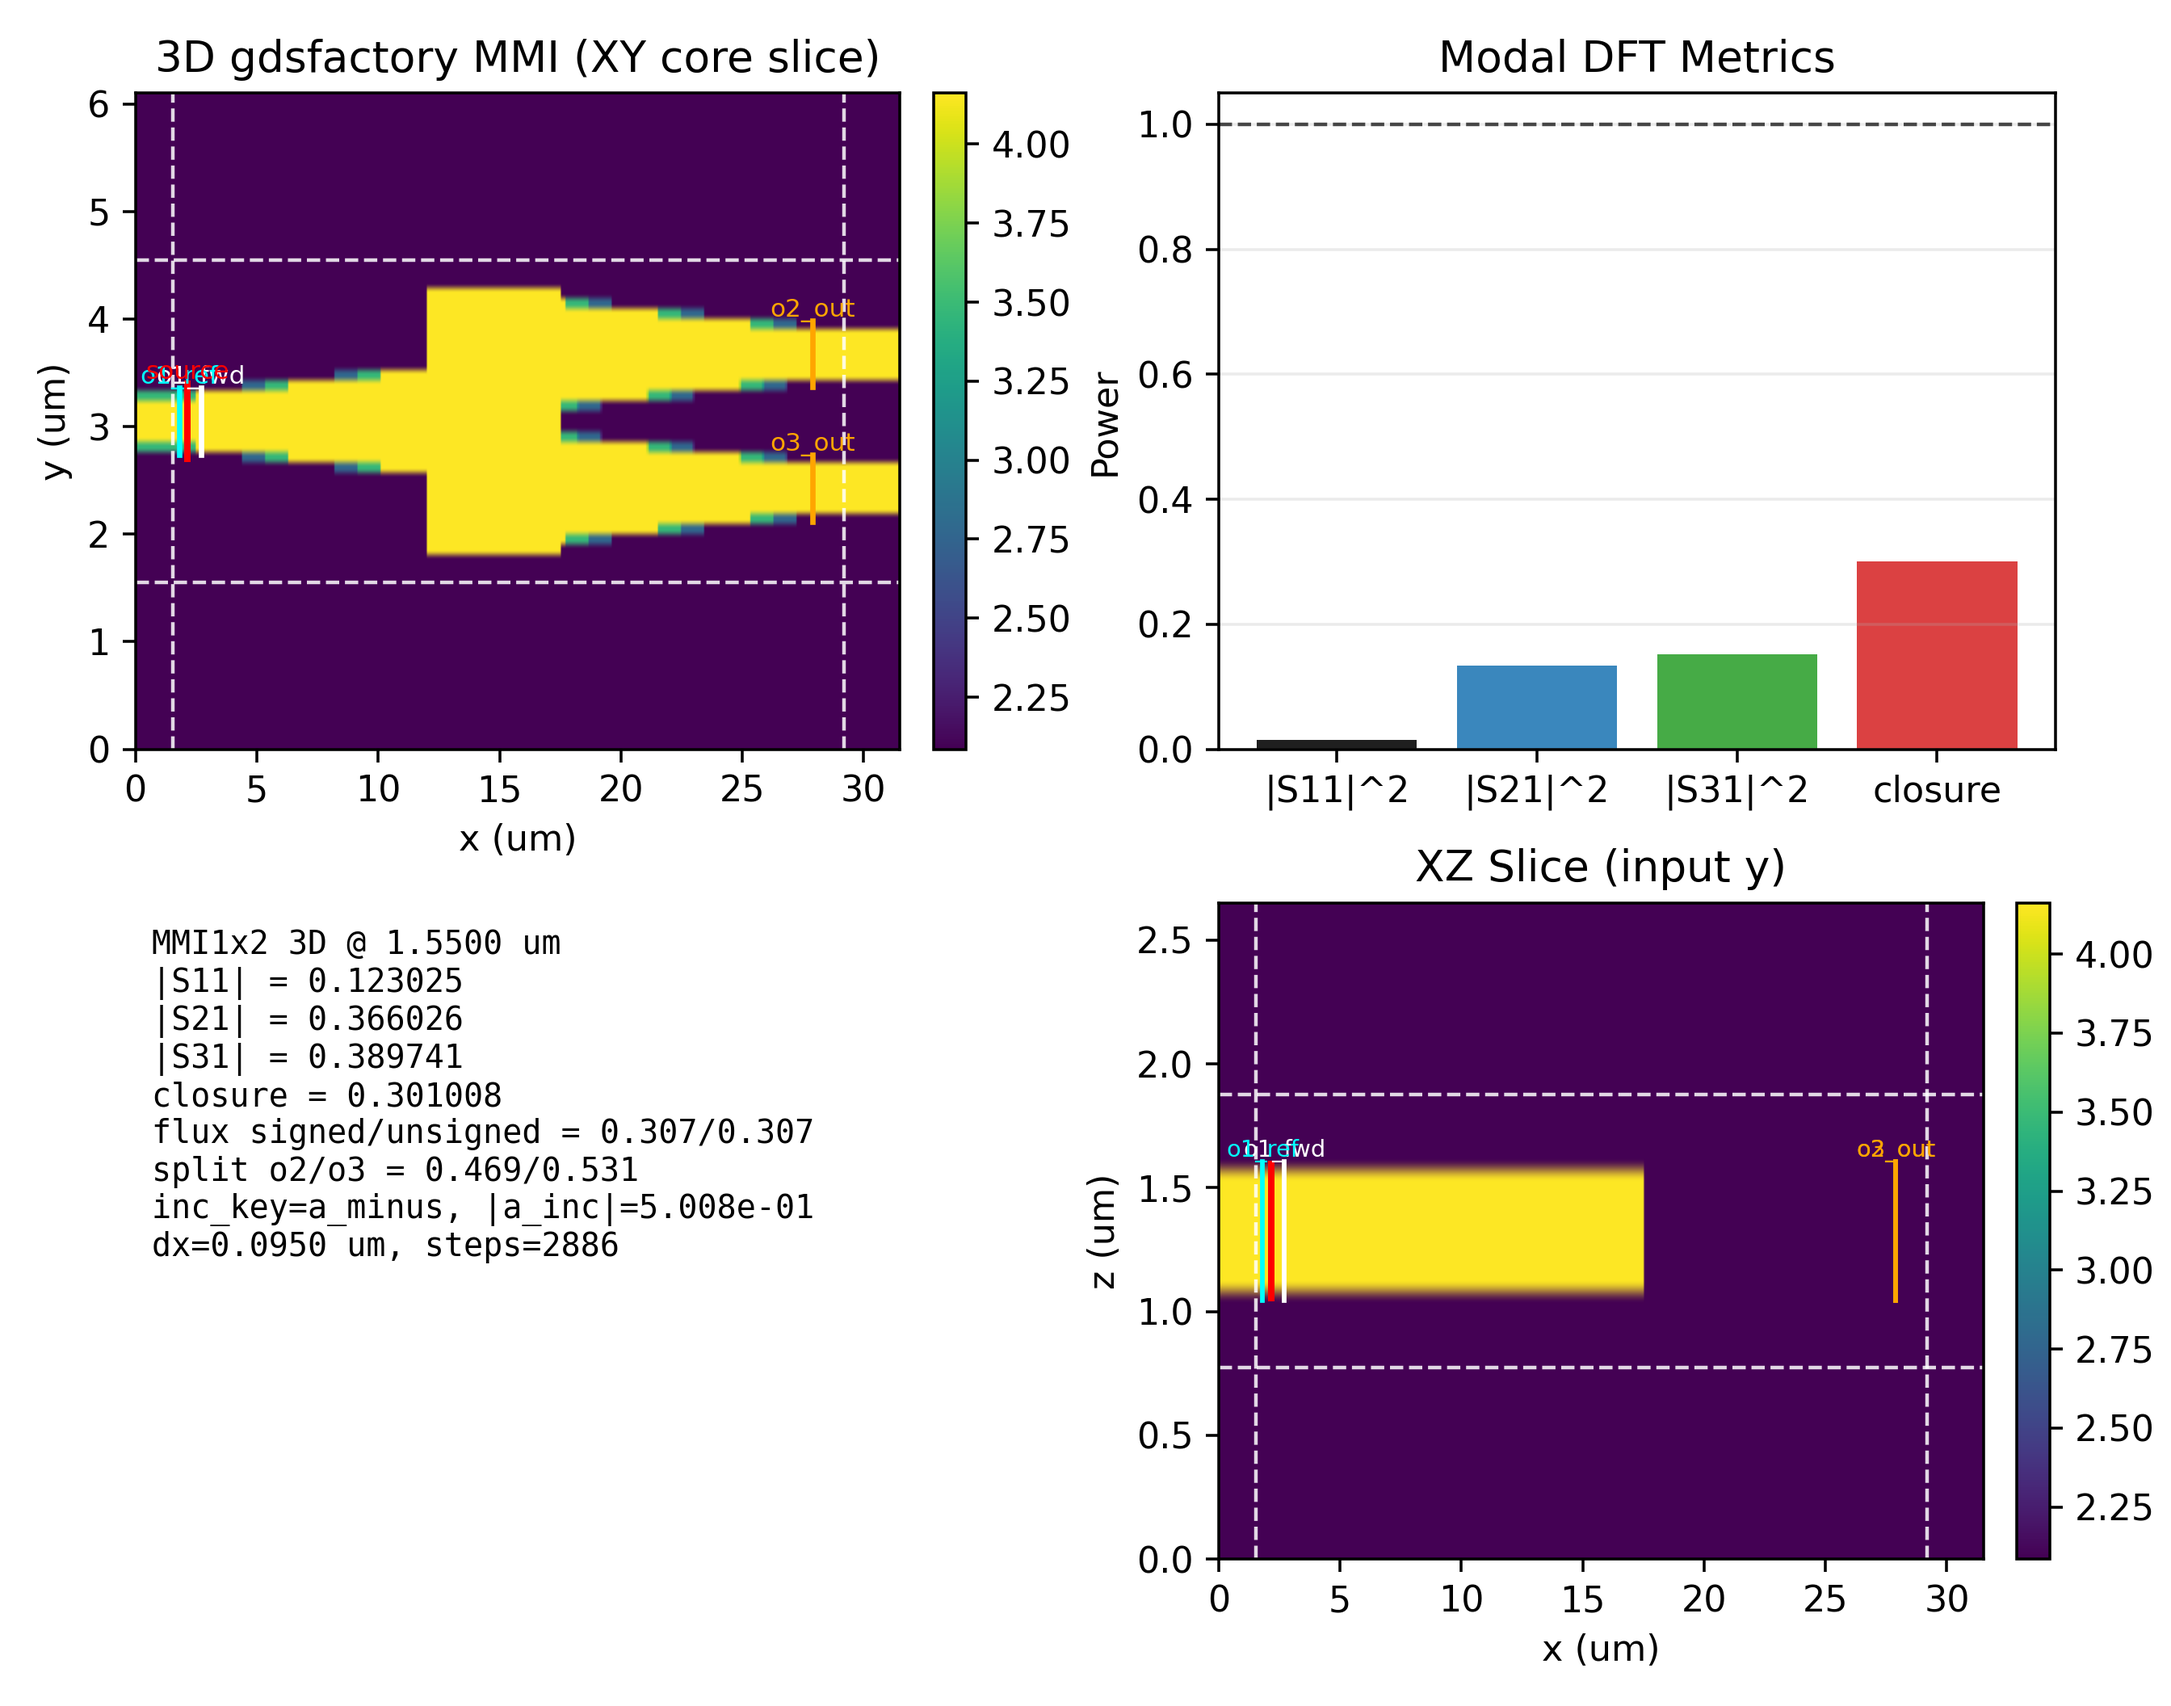
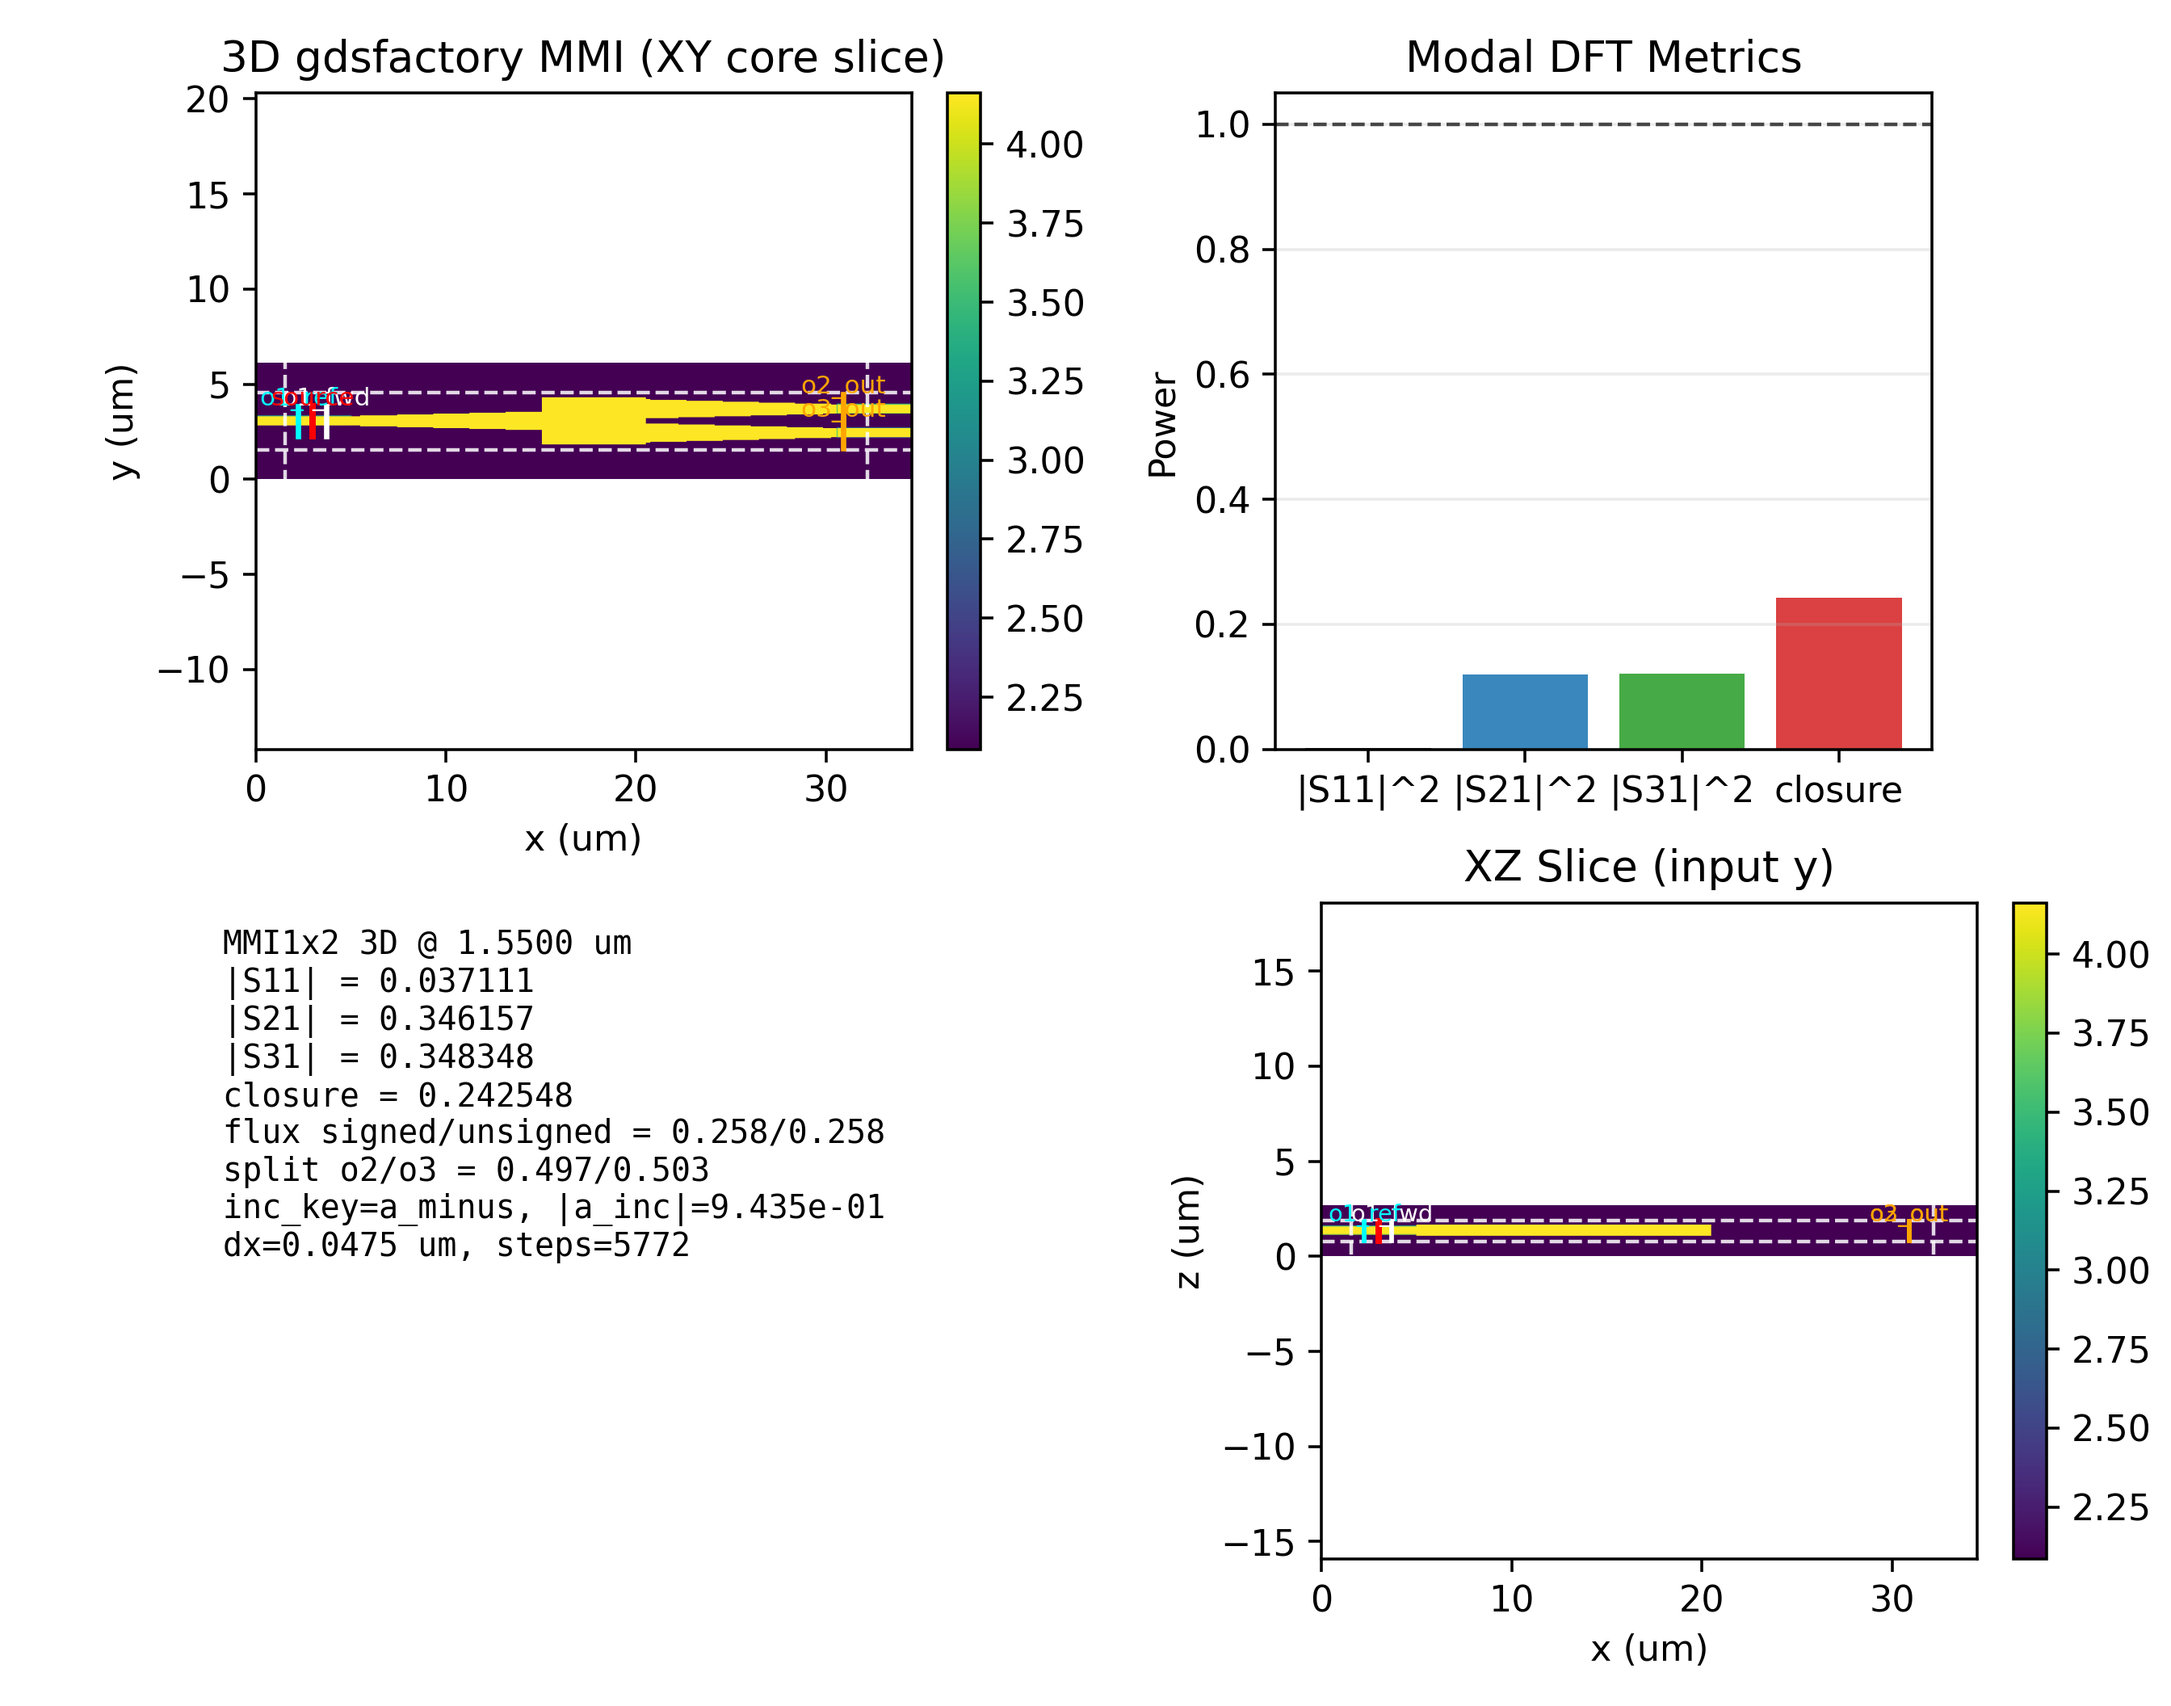
Better plotting.

diff --git a/examples/gdsf_to_sax_3d.py b/examples/gdsf_to_sax_3d.py
@@ -105,11 +105,61 @@ def monitor_overlap_stats(eps_grid, monitor_obj, dx, dy, dz, *, eps_core, eps_cl
     return core_frac, clad_frac, float(np.max(vals))
 
 
+def save_mode_source_plot(mode_source, out_path):
+    eps = np.asarray(getattr(mode_source, "_eps_profile_2d", np.zeros((1, 1))), dtype=float)
+    fields = {
+        "Ex": np.asarray(getattr(mode_source, "_Ex_profile", 0.0), dtype=float),
+        "Ey": np.asarray(getattr(mode_source, "_Ey_profile", 0.0), dtype=float),
+        "Ez": np.asarray(getattr(mode_source, "_Ez_profile", 0.0), dtype=float),
+        "Hx": np.asarray(getattr(mode_source, "_Hx_profile", 0.0), dtype=float),
+        "Hy": np.asarray(getattr(mode_source, "_Hy_profile", 0.0), dtype=float),
+        "Hz": np.asarray(getattr(mode_source, "_Hz_profile", 0.0), dtype=float),
+    }
+
+    fig, axes = plt.subplots(2, 4, figsize=(11.0, 5.6), dpi=220)
+    ax = axes.ravel()
+    for a in ax:
+        a.set_box_aspect(1.0)
+    im_eps = ax[0].imshow(eps, origin="lower", cmap="viridis", aspect="equal")
+    ax[0].set_title("eps cross-section")
+    fig.colorbar(im_eps, ax=ax[0], fraction=0.046, pad=0.04)
+
+    for i, name in enumerate(["Ex", "Ey", "Ez", "Hx", "Hy", "Hz"], start=1):
+        arr = np.asarray(fields[name]).squeeze()
+        if arr.ndim != 2:
+            arr = np.atleast_2d(arr)
+        im = ax[i].imshow(np.abs(arr), origin="lower", cmap="magma", aspect="equal")
+        ax[i].set_title(f"|{name}|")
+        fig.colorbar(im, ax=ax[i], fraction=0.046, pad=0.04)
+
+    ax[7].axis("off")
+    ax[7].text(
+        0.02,
+        0.95,
+        (
+            f"pol={mode_source.pol}\n"
+            f"dir={mode_source.direction}\n"
+            f"neff={float(np.real(getattr(mode_source, '_neff', np.nan))):.6f}\n"
+            f"neff_imp={float(np.real(getattr(mode_source, '_impedance_neff', np.nan))):.6f}\n"
+            f"width={float(mode_source.width)/µm:.3f} um\n"
+            f"height={float(mode_source.height)/µm:.3f} um"
+        ),
+        va="top",
+        ha="left",
+        fontsize=9,
+        family="monospace",
+    )
+    fig.tight_layout()
+    fig.savefig(out_path, dpi=300)
+    plt.close(fig)
+
+
 def main():
     out_dir = Path("benchmarks/results/gdsf_to_sax_debug")
     out_dir.mkdir(parents=True, exist_ok=True)
     out_png = out_dir / "gdsf_mmi1x2_3d_sparams.png"
-    out_field_png = out_dir / "gdsf_mmi1x2_3d_field_slices.png"
+    out_field_png = out_dir / "gdsf_mmi1x2_3d_ey_field_slices.png"
+    out_mode_png = out_dir / "gdsf_mmi1x2_3d_mode_source.png"
 
     wl0 = 1.55 * µm
     f0 = LIGHT_SPEED / wl0
@@ -118,7 +168,7 @@ def main():
     n_core, n_clad = 2.04, 1.444
     core_t = 0.45 * µm
 
-    input_extension = 2.0 * µm
+    input_extension = 5.0 * µm
     output_extension = 4.0 * µm
     y_margin = 1.8 * µm
 
@@ -133,7 +183,7 @@ def main():
         n_max=n_core,
         dims=3,
         safety_factor=0.96,
-        points_per_wavelength=8,
+        points_per_wavelength=16,
     )
 
     imported_design, ports = gdsf.load(
@@ -203,12 +253,23 @@ def main():
     z_max = depth - pml_z - 0.05 * µm
 
     src = ports["o1"]
-    src_w = max(0.70 * µm, 1.2 * src["width"])
-    src_h = max(0.50 * µm, 1.2 * core_t)
-    # Keep source safely inside the non-PML interior.
-    source_x_nominal = move_along(src["center"], src["direction"], -0.90 * µm)[0]
-    source_x = max(float(source_x_nominal), float(pml_xy + 0.60 * µm))
-    source_xy = (source_x, float(src["center"][1]))
+    # Larger source/monitor windows to stabilize 3D mode solving/projection.
+    src_w = max(1.60 * µm, 3.2 * src["width"])
+    src_h = max(1.40 * µm, 3.0 * core_t)
+    max_src_w = max(0.2 * µm, design.height - 2.0 * pml_xy - 0.10 * µm)
+    max_src_h = max(0.2 * µm, design.depth - 2.0 * pml_z - 0.10 * µm)
+    src_w = min(src_w, max_src_w)
+    src_h = min(src_h, max_src_h)
+    x_port = float(src["center"][0])
+    x_straight_min = float(pml_xy + 0.60 * µm)
+    x_straight_max = float(x_port - 0.60 * µm)
+    if x_straight_max <= x_straight_min:
+        raise RuntimeError(
+            "Input straight section too short for source/monitor placement. "
+            "Increase input_extension."
+        )
+    source_x = np.clip(x_port - 2.0 * µm, x_straight_min + 0.3 * µm, x_straight_max - 0.3 * µm)
+    source_xy = (float(source_x), float(src["center"][1]))
     source = ModeSource(
         grid=grid,
         center=(source_xy[0], source_xy[1], core_zc),
@@ -220,11 +281,14 @@ def main():
         direction=src["direction"],
     )
 
-    mon_y_span = max(0.62 * µm, 1.15 * src["width"])
-    mon_z_span = max(0.55 * µm, 1.25 * core_t)
+    mon_y_span = max(1.60 * µm, 3.2 * src["width"])
+    mon_z_span = max(1.40 * µm, 3.0 * core_t)
 
-    fwd_xy = move_along(src["center"], src["direction"], +0.70 * µm)
-    ref_xy = move_along(src["center"], src["direction"], -0.20 * µm)
+    # Place source and input monitors on the long straight input section (before taper/MMI).
+    fwd_x = float(np.clip(source_x + 0.70 * µm, x_straight_min + 0.1 * µm, x_straight_max - 0.1 * µm))
+    ref_x = float(np.clip(source_x - 0.80 * µm, x_straight_min + 0.1 * µm, x_straight_max - 0.1 * µm))
+    fwd_xy = (fwd_x, float(src["center"][1]))
+    ref_xy = (ref_x, float(src["center"][1]))
     fwd_start, fwd_end = make_x_plane(
         fwd_xy[0], fwd_xy[1], mon_y_span, core_zc, mon_z_span, z_min, z_max
     )
@@ -303,6 +367,12 @@ def main():
             pml_z=pml_z,
         )
         print(f"Monitor '{name}' inside non-PML: {inside}")
+    print(
+        "Input straight placement: "
+        f"x_straight=[{x_straight_min/µm:.3f},{x_straight_max/µm:.3f}]um, "
+        f"source_x={source_x/µm:.3f}um, fwd_x={fwd_x/µm:.3f}um, ref_x={ref_x/µm:.3f}um, "
+        f"port_x={x_port/µm:.3f}um"
+    )
     src_x, src_y, src_z = source.center
     src_inside_non_pml = (
         float(src_x) >= float(pml_xy)
@@ -332,6 +402,9 @@ def main():
             f"Monitor overlap '{name}': core_frac={core_frac:.3f}, "
             f"clad_frac={clad_frac:.3f}, eps_max={eps_max:.3f}"
         )
+    source.initialize(grid.permittivity, dx, dt=dt)
+    save_mode_source_plot(source, out_mode_png)
+    print(f"Saved mode-source figure: {out_mode_png}")
 
     sim = Simulation(
         design=design,
@@ -349,7 +422,7 @@ def main():
     run_result = sim.run_compiled(
         num_steps=len(time),
         record_interval=rec_interval,
-        record_fields=["Ez"],
+        record_fields=["Ey"],
         progress=False,
     )
 
@@ -423,13 +496,15 @@ def main():
     y_idx = int(np.clip(round(src["center"][1] / dx), 0, eps.shape[1] - 1))
 
     fig, ax = plt.subplots(2, 2, figsize=(8.4, 6.6), dpi=260)
+    for a in ax.ravel():
+        a.set_box_aspect(1.0)
 
     eps_xy = eps[z_idx]
     im0 = ax[0, 0].imshow(
         eps_xy,
         origin="lower",
         cmap="viridis",
-        aspect="auto",
+        aspect="equal",
         extent=[0.0, design.width / µm, 0.0, design.height / µm],
     )
     ax[0, 0].set_title("3D gdsfactory MMI (XY core slice)")
@@ -498,7 +573,7 @@ def main():
         eps_xz,
         origin="lower",
         cmap="viridis",
-        aspect="auto",
+        aspect="equal",
         extent=[0.0, design.width / µm, 0.0, design.depth / µm],
     )
     ax[1, 1].set_title("XZ Slice (input y)")
@@ -536,51 +611,53 @@ def main():
     plt.close(fig)
     print(f"Saved S-parameter figure: {out_png}")
 
-    ez_snap = np.asarray(sim.fields.Ez, dtype=float)
+    ey_snap = np.asarray(sim.fields.Ey, dtype=float)
     if isinstance(run_result, dict):
-        ez_hist = np.asarray(run_result.get("fields", {}).get("Ez", np.zeros((0,))), dtype=float)
-        if ez_hist.ndim == 4 and ez_hist.shape[0] > 0:
-            peak_idx = int(np.argmax(np.max(np.abs(ez_hist), axis=(1, 2, 3))))
-            ez_snap = np.asarray(ez_hist[peak_idx], dtype=float)
+        ey_hist = np.asarray(run_result.get("fields", {}).get("Ey", np.zeros((0,))), dtype=float)
+        if ey_hist.ndim == 4 and ey_hist.shape[0] > 0:
+            peak_idx = int(np.argmax(np.max(np.abs(ey_hist), axis=(1, 2, 3))))
+            ey_snap = np.asarray(ey_hist[peak_idx], dtype=float)
 
-    x_probe = int(np.clip(round(0.5 * (out_flux_x + src["center"][0]) / dx), 0, ez_snap.shape[2] - 1))
-    ez_xy = ez_snap[z_idx, :, :]
-    ez_xz = ez_snap[:, y_idx, :]
-    ez_yz = ez_snap[:, :, x_probe]
+    x_probe = int(np.clip(round(0.5 * (out_flux_x + src["center"][0]) / dx), 0, ey_snap.shape[2] - 1))
+    ey_xy = ey_snap[z_idx, :, :]
+    ey_xz = ey_snap[:, y_idx, :]
+    ey_yz = ey_snap[:, :, x_probe]
 
     fig2, ax2 = plt.subplots(1, 3, figsize=(10.2, 3.2), dpi=260)
+    for a in ax2:
+        a.set_box_aspect(1.0)
     im_xy = ax2[0].imshow(
-        ez_xy,
+        ey_xy,
         origin="lower",
         cmap="RdBu",
-        aspect="auto",
+        aspect="equal",
         extent=[0.0, design.width / µm, 0.0, design.height / µm],
     )
-    ax2[0].set_title(f"Ez XY @ z={z_idx}")
+    ax2[0].set_title(f"Ey XY @ z={z_idx}")
     ax2[0].set_xlabel("x (um)")
     ax2[0].set_ylabel("y (um)")
     fig2.colorbar(im_xy, ax=ax2[0], fraction=0.046, pad=0.04)
 
     im_xz = ax2[1].imshow(
-        ez_xz,
+        ey_xz,
         origin="lower",
         cmap="RdBu",
-        aspect="auto",
+        aspect="equal",
         extent=[0.0, design.width / µm, 0.0, design.depth / µm],
     )
-    ax2[1].set_title(f"Ez XZ @ y={y_idx}")
+    ax2[1].set_title(f"Ey XZ @ y={y_idx}")
     ax2[1].set_xlabel("x (um)")
     ax2[1].set_ylabel("z (um)")
     fig2.colorbar(im_xz, ax=ax2[1], fraction=0.046, pad=0.04)
 
     im_yz = ax2[2].imshow(
-        ez_yz,
+        ey_yz,
         origin="lower",
         cmap="RdBu",
-        aspect="auto",
+        aspect="equal",
         extent=[0.0, design.height / µm, 0.0, design.depth / µm],
     )
-    ax2[2].set_title(f"Ez YZ @ x={x_probe}")
+    ax2[2].set_title(f"Ey YZ @ x={x_probe}")
     ax2[2].set_xlabel("y (um)")
     ax2[2].set_ylabel("z (um)")
     fig2.colorbar(im_yz, ax=ax2[2], fraction=0.046, pad=0.04)
